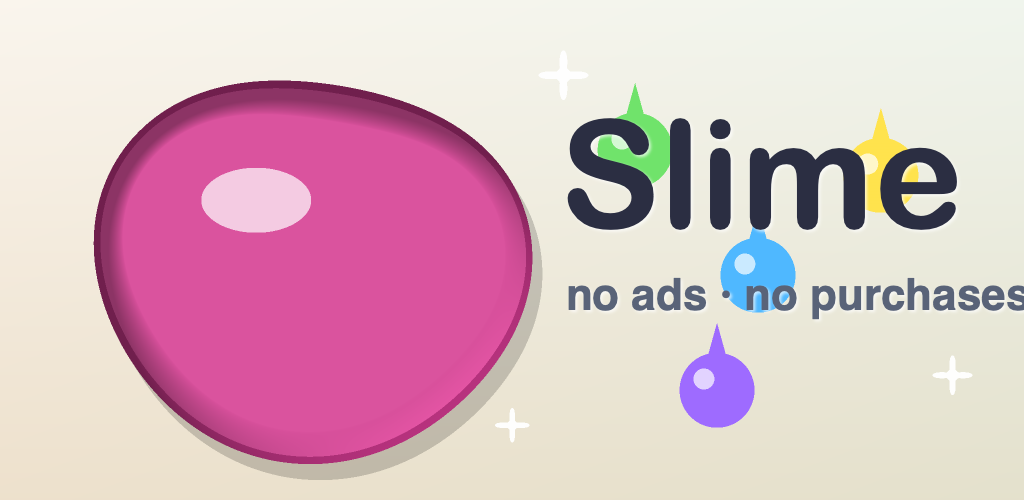
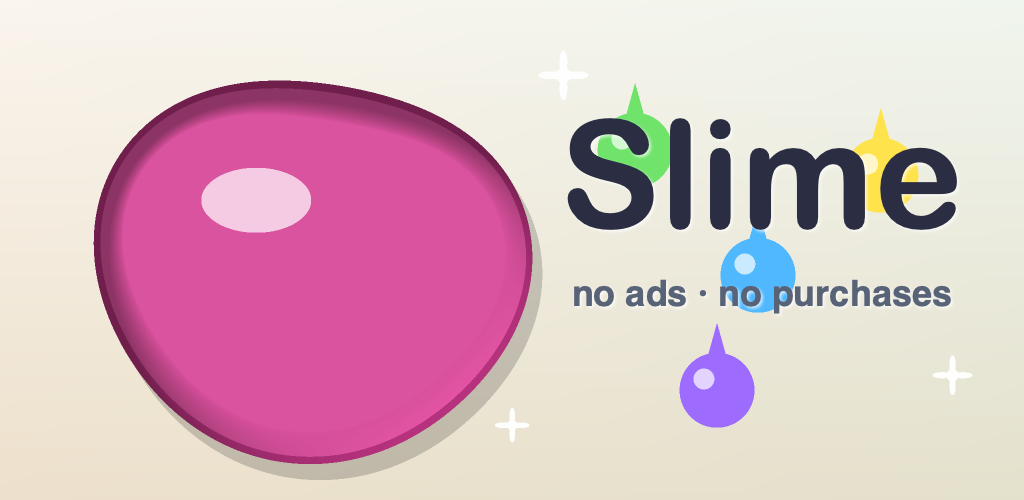
Promo image: keep subtitle inside Amazon's 50px edge margin

Changed region(s): [[0.5312, 0.54, 1.0, 0.63]]

diff --git a/art/make_promo.swift b/art/make_promo.swift
@@ -16,7 +16,7 @@ func text(_ s: String, _ pt: CGFloat, _ color: NSColor, _ x: CGFloat, _ y: CGFlo
 }
 // AppKit y is bottom-up. Keep all text >= 50px from edges.
 text("Slime", 150, NSColor(red: 0.17, green: 0.18, blue: 0.26, alpha: 1), 560, 240, bold: true)
-text("no ads · no purchases", 44, NSColor(red: 0.35, green: 0.39, blue: 0.47, alpha: 1), 566, 180, bold: false)
+text("no ads · no purchases", 36, NSColor(red: 0.35, green: 0.39, blue: 0.47, alpha: 1), 572, 186, bold: false)
 img.unlockFocus()
 guard let tiff = img.tiffRepresentation, let rep = NSBitmapImageRep(data: tiff),
       let png = rep.representation(using: .png, properties: [:]) else { fatalError("encode") }
